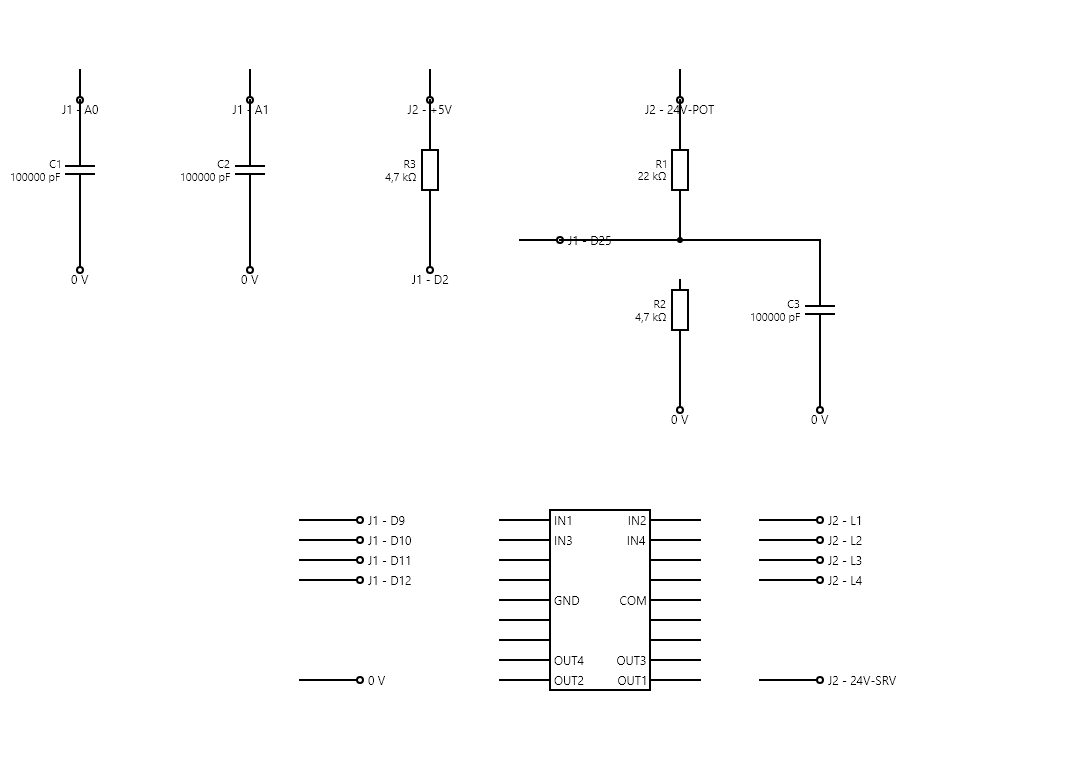
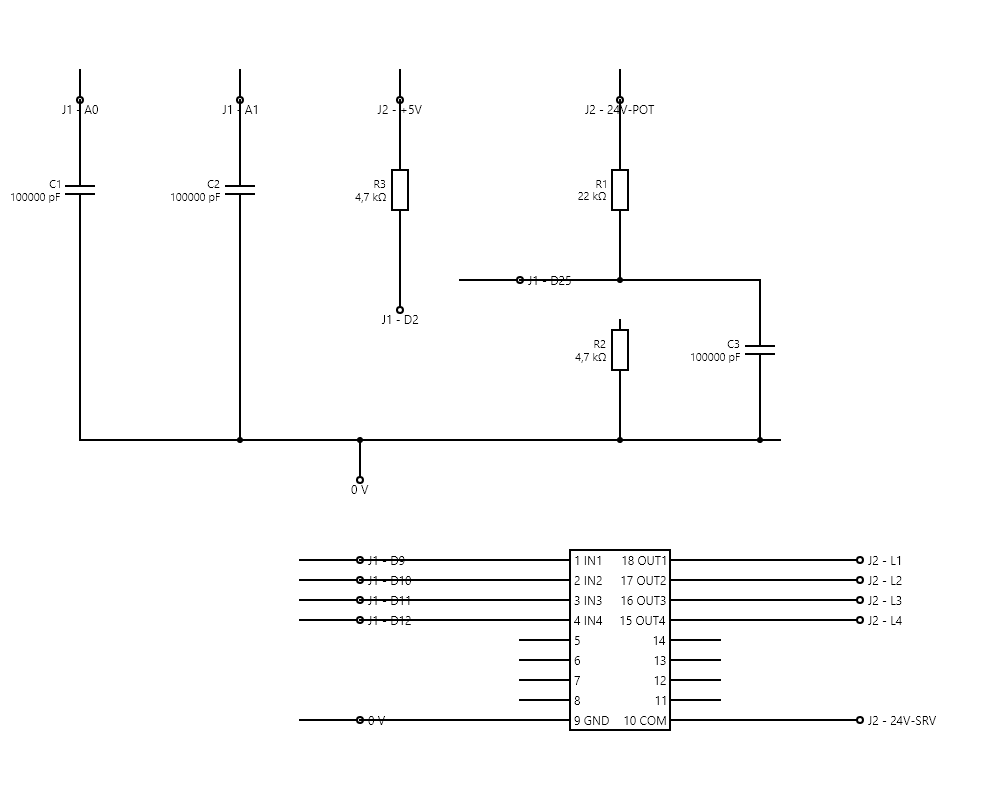
Corrige o esquema da PI-1: liga todos os fios e acerta os pinos do CI
O usuario apontou que os fios estavam soltos. Duas correcoes:

1. BARRAMENTO DE 0 V. Cada retorno estava desenhado como um borne '0 V'
   isolado, o que fazia o desenho parecer desconectado. Agora ha uma
   linha horizontal unica ligando C1, C2, R2 e C3, com nos marcados e
   UM borne de 0 V - que e como o circuito realmente e.

2. FIOS ATE OS PINOS DO CI. Os rotulos estavam posicionados ao lado do
   ULN2803 mas sem fio nenhum ligando. Agora ha condutor de cada borne
   ate o pino.

E um erro que so apareceu ao ligar os fios: o componente 'integrated
_circuit' numera os pinos ALTERNANDO esquerda/direita (p0 esq, p1 dir,
p2 esq...), nao no padrao DIP (desce um lado, sobe o outro). Com o
mapeamento errado, OUT1 aparecia como IN2 e o COM caia na linha do
OUT1. Remapeado: p[n] fica na linha n//2, esquerda se n par.

Conferido no render: IN1..IN4 recebem D9..D12, pino 9 GND vai ao
barramento, pino 10 COM vai ao 24V-SRV e OUT1..OUT4 vao a L1..L4.

Doc 33 ganhou a secao 'Como ler o desenho do circuito'.

diff --git a/camada_3_eletrica/33_placa_interface_componentes.md b/camada_3_eletrica/33_placa_interface_componentes.md
@@ -443,6 +443,30 @@ I = (5 V − 3,1 V) / 220 Ω = 8,6 mA   ✅ brilho adequado para cenografia
 >
 > 📌 Os capacitores aparecem como **100000 pF**, que é a mesma coisa que **100 nF** — é só a notação que a ferramenta escolhe.
 
+### Como ler o desenho do circuito
+
+**A linha horizontal grossa embaixo é o barramento de 0 V.** Os pontinhos cheios sobre ela são **nós** — onde os fios realmente se juntam. Repare que C1, C2, R2 e C3 descem todos até ela: é o mesmo 0 V para todos, e por isso existe **um único borne "0 V"**.
+
+**Os quatro circuitos de cima não se tocam entre si** — só se encontram no barramento. Da esquerda para a direita:
+
+| Circuito | O que faz |
+|---|---|
+| **C1** entre `J1·A0` e o 0 V | Filtra o ruído do pino IS do BTS #1 |
+| **C2** entre `J1·A1` e o 0 V | Idem, BTS #2 |
+| **R3** entre `J2·+5V` e `J1·D2` | Pull-up do sensor. **Não desce ao 0 V** |
+| **R1 + R2 + C3** | Divisor: os 24 V entram por `J2·24V-POT`, viram 4,2 V no nó e saem por `J1·D25` |
+
+**No ULN2803, cada pino mostra o número real do CI e para onde vai o fio.** Confira contra o chip físico: o pino 1 fica ao lado do chanfro.
+
+| Pino | Liga em |
+|---|---|
+| 1 · IN1 · 2 · IN2 · 3 · IN3 · 4 · IN4 | `J1·D9` · `D10` · `D11` · `D12` |
+| **9 · GND** | Barramento de 0 V |
+| **10 · COM** | `J2·24V-SRV` (24 V permanente) |
+| 18 · OUT1 · 17 · OUT2 · 16 · OUT3 · 15 · OUT4 | `J2·L1−` · `L2−` · `L3−` · `L4−` |
+
+⚠ **Repare na numeração:** entradas e saídas ficam **frente a frente** — IN1 em cima à esquerda, OUT1 em cima à direita. Os pinos 5 a 8 e 11 a 14 ficam sem uso.
+
 > 🖼 **Detalhamento adicional:**
 > - [**Esquema elétrico**](../desenhos/08_placa_pi1_esquema.svg) — mostra **como funciona** (os 4 circuitos separados)
 > - [**Diagrama de ligação**](../desenhos/09_placa_pi1_montagem.svg) ⭐ — mostra **onde cada fio vai**. **É este que você usa para montar**
